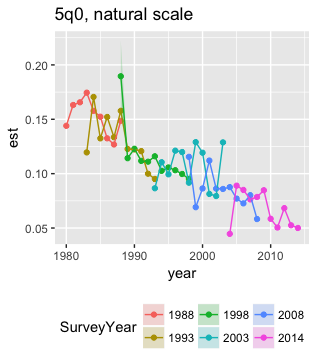
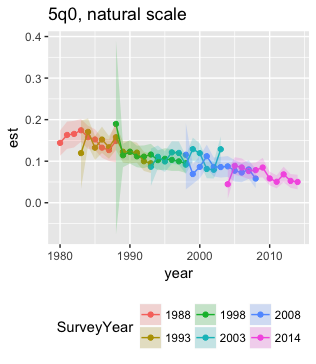
rebuild vignette with corrected CIs package

diff --git a/vignettes/smoothed-child-mx.md b/vignettes/smoothed-child-mx.md
@@ -111,12 +111,12 @@ knitr::kable(head(u5mr), row.names=FALSE, digits=3)
 
 SurveyId    CountryName   SurveyYear   period   tips      est      se    ci_l    ci_u
 ----------  ------------  -----------  -------  -----  ------  ------  ------  ------
-GH1988DHS   Ghana         1988         1980     0-9     0.144   0.016   0.143   0.145
-GH1988DHS   Ghana         1988         1981     0-9     0.163   0.017   0.162   0.164
-GH1988DHS   Ghana         1988         1982     0-9     0.166   0.016   0.165   0.166
-GH1988DHS   Ghana         1988         1983     0-9     0.174   0.014   0.174   0.175
-GH1988DHS   Ghana         1988         1984     0-9     0.158   0.014   0.157   0.158
-GH1988DHS   Ghana         1988         1985     0-9     0.152   0.013   0.152   0.153
+GH1988DHS   Ghana         1988         1980     0-9     0.144   0.016   0.113   0.174
+GH1988DHS   Ghana         1988         1981     0-9     0.163   0.017   0.130   0.195
+GH1988DHS   Ghana         1988         1982     0-9     0.166   0.016   0.133   0.197
+GH1988DHS   Ghana         1988         1983     0-9     0.174   0.014   0.147   0.201
+GH1988DHS   Ghana         1988         1984     0-9     0.158   0.014   0.129   0.185
+GH1988DHS   Ghana         1988         1985     0-9     0.152   0.013   0.127   0.177
 
 ```r
 
